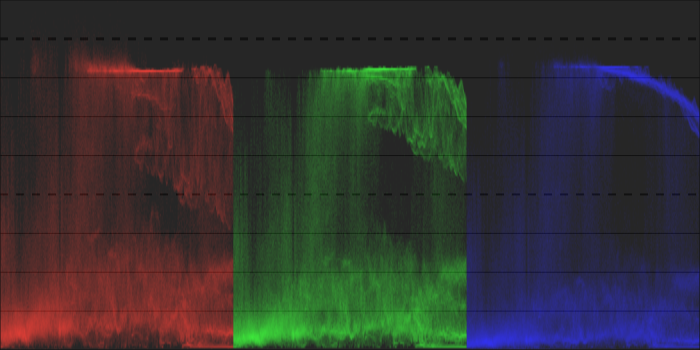
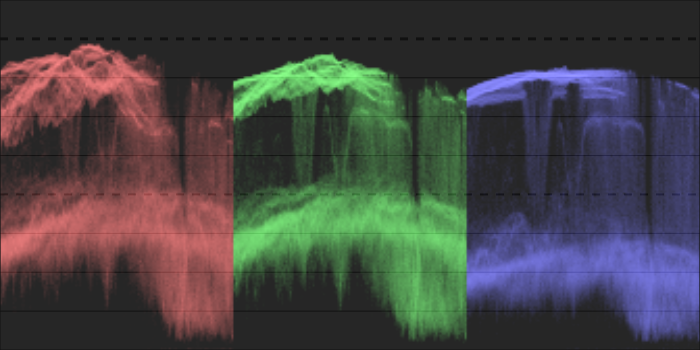
histogram: update waveform and rgb parade images
Add images of vertical waveform and rgb parade. Update the horizontal
images as well, due to changes in plot appearance due to recent
updates in the drawing code.

diff --git a/content/module-reference/utility-modules/shared/histogram.md b/content/module-reference/utility-modules/shared/histogram.md
@@ -18,7 +18,7 @@ For performance reasons, scopes are calculated from the image preview (the image
 
 # the "regular" histogram
 
-![histogram-regular](./histogram/histogram-regular.png#w50)
+!["regular" histogram](./histogram/histogram-regular.png#w50)
 
 The regular histogram shows the distribution of pixels by lightness for each color channel.
 
@@ -30,7 +30,7 @@ The three rightmost colored buttons toggle the display of the red, green and blu
 
 # waveform
 
-![histogram-waveform](./histogram/histogram-waveform.png#w50)
+![waveform scope (horizontal)](./histogram/histogram-waveform.png#w50)
 
 The waveform scope shows data akin to the waveform, with the addition of spatial data about the image.
 
@@ -40,6 +40,8 @@ The y-axis represents the distribution of pixels by lightness for each channel -
 
 The brightness of each point on the waveform represents the number of pixels at the given position (the x-axis) having the given lightness (the y-axis).
 
+![waveform scope (vertical)](./histogram/histogram-waveform-vertical.png#w50)
+
 Clicking the second-to-leftmost button on the panel toggles between a horizontal and a vertical waveform. In the vertical waveform, the y-axis of the plot represents the y-axis of the image. The x-axis represents the distribution of pixels by lightness. The vertical waveform can be useful for portrait-format images, or simply to understand an image in a different way.
 
 As with the histogram, you can selectively display each of the red, green, and blue channels, by clicking on the appropriate buttons.
@@ -48,9 +50,11 @@ See [Of Histograms and Waveforms](https://www.darktable.org/2013/12/of-histogram
 
 # rgb parade
 
-![histogram-parade](./histogram/histogram-parade.png#w50)
+![rgb parade (horizontal)](./histogram/histogram-parade.png#w50)
 
 The RGB parade scope shows the same data as the waveform, but with the red, green, and blue channels presented side-by-side.
+
+![rgb parade (vertical)](./histogram/histogram-parade-vertical.png#w50)
 
 As with the waveform, clicking the second-to-leftmost button on the panel toggles between horizontal and vertical processing of the image data.
 
@@ -58,7 +62,7 @@ The RGB parade can be useful for matching the intensities of the red, green, and
 
 # vectorscope
 
-![histogram-vectorscope](./histogram/histogram-vectorscope.png#w50)
+![vectorscope](./histogram/histogram-vectorscope.png#w50)
 
 The vectorscope shows [chromaticity](https://en.wikipedia.org/wiki/Chromaticity) without regard to either lightness or spatial data. 
 
